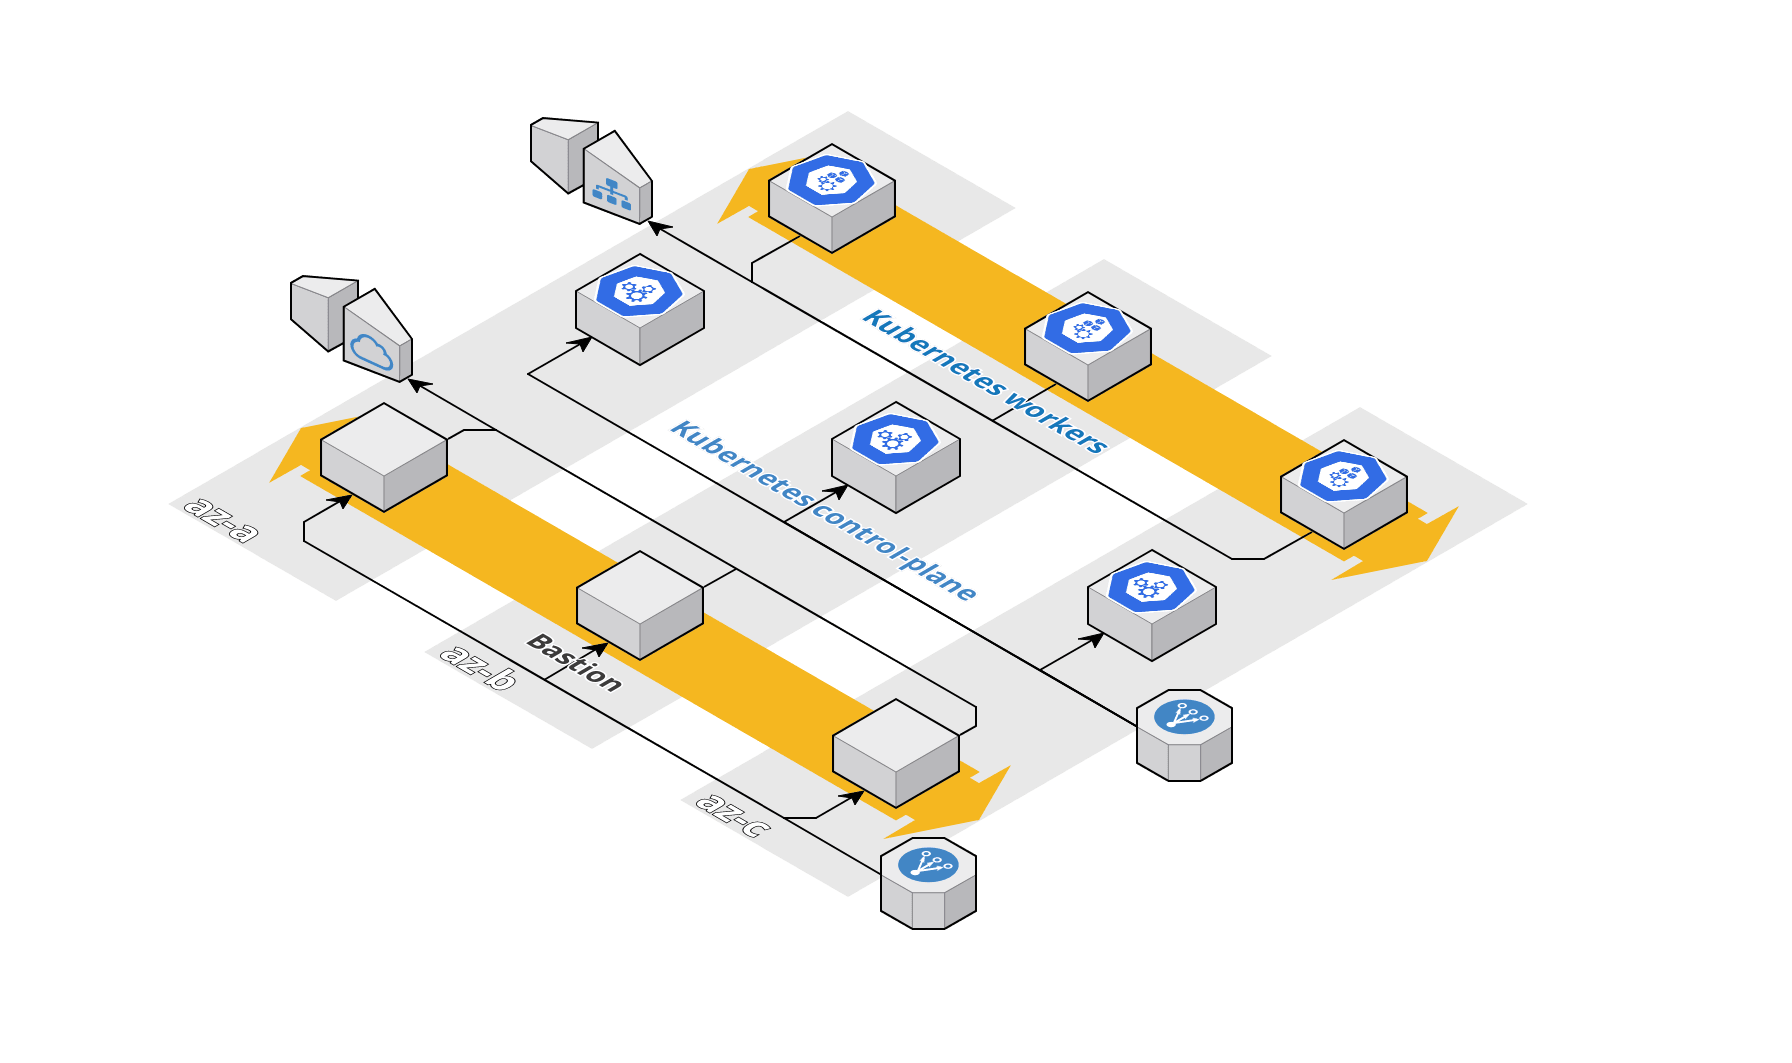
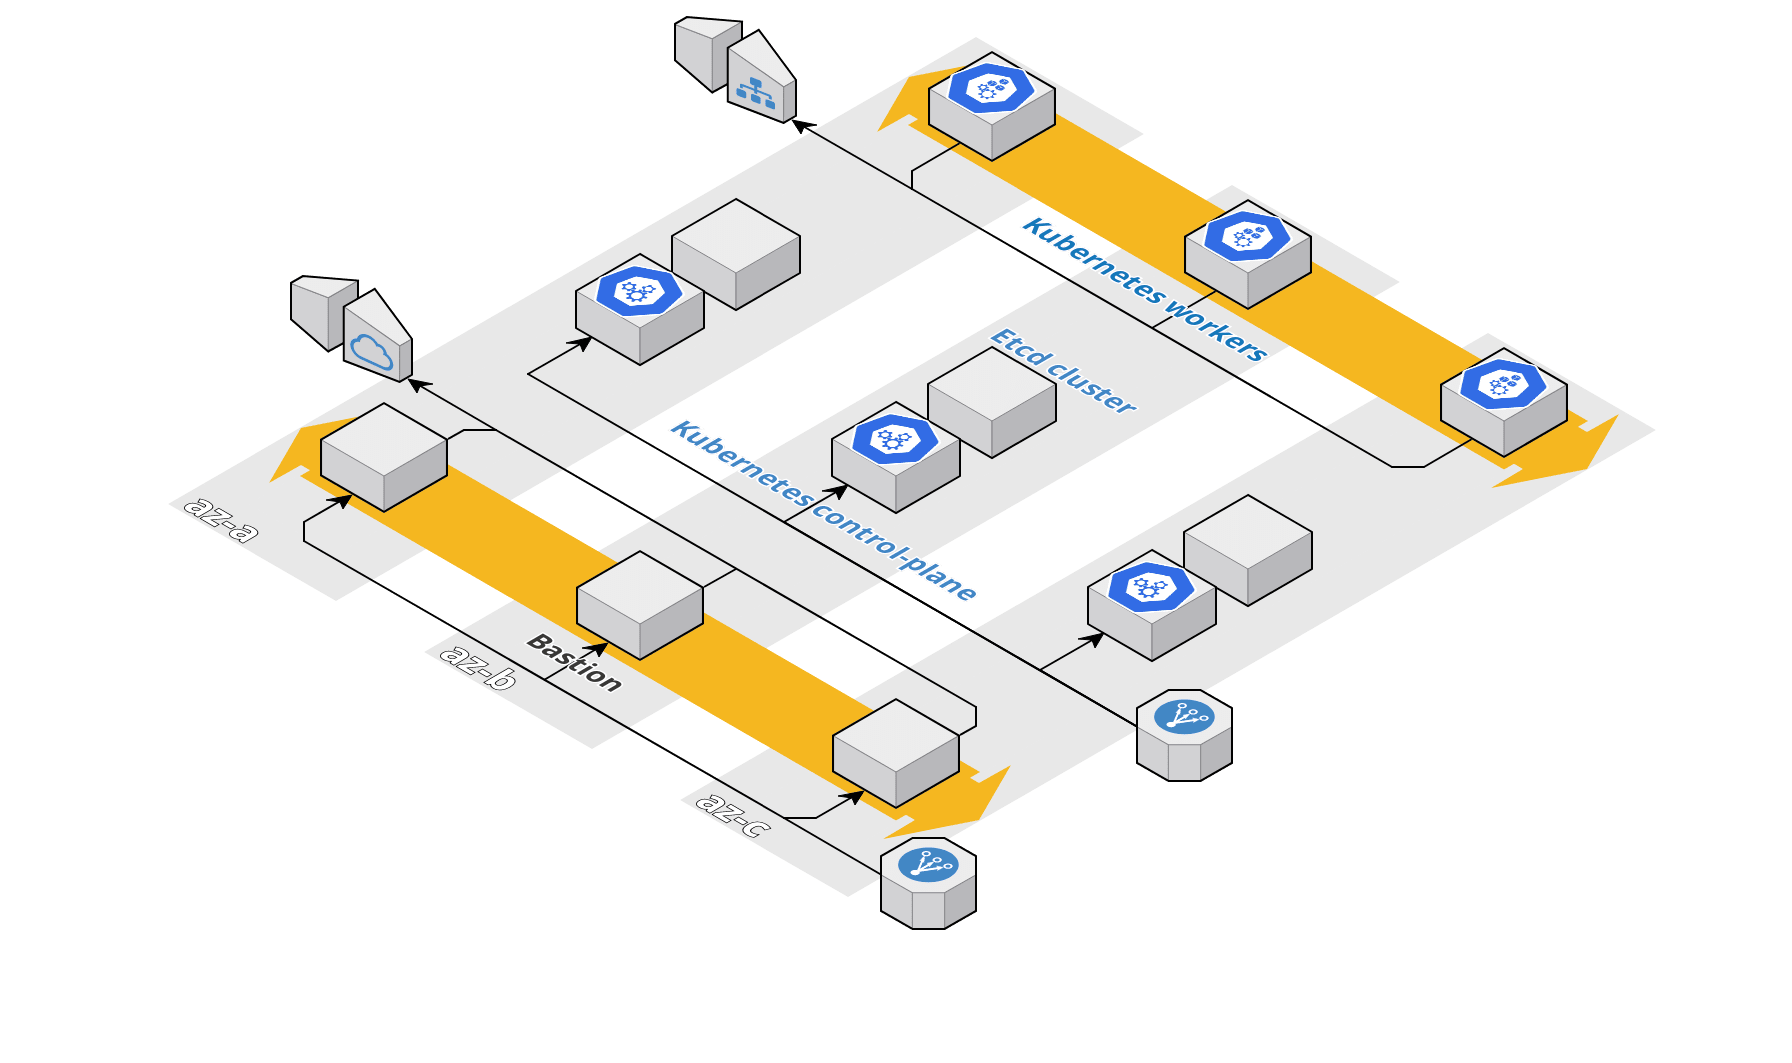
First working version of the etcd cluster

Changed region(s): [[0.2812, 0.0, 0.9062, 0.5898]]

diff --git a/modules/etcd/README.md b/modules/etcd/README.md
@@ -1,6 +1,12 @@
 # Terraform etcd module
 
 Based on the following official doc:
+[Etcd DNS discovery](https://etcd.io/docs/v2/clustering/#dns-discovery)
 [Guide for AWS](https://etcd.io/docs/v3.4.0/platforms/aws/)
 [Hardware recommendations](https://etcd.io/docs/v3.4.0/op-guide/hardware/)
 
+After applying you can SSH to one of the node and run this command to check the etcd cluster status:
+
+```console
+ETCDCTL_API=3 etcdctl -w table --endpoints https://$(hostname -i|awk '{print $1}'):2379 --cacert /etc/etcd/tls/ca.pem --cert  /etc/etcd/tls/tls.pem --key  /etc/etcd/tls/tls.key member list
+```
